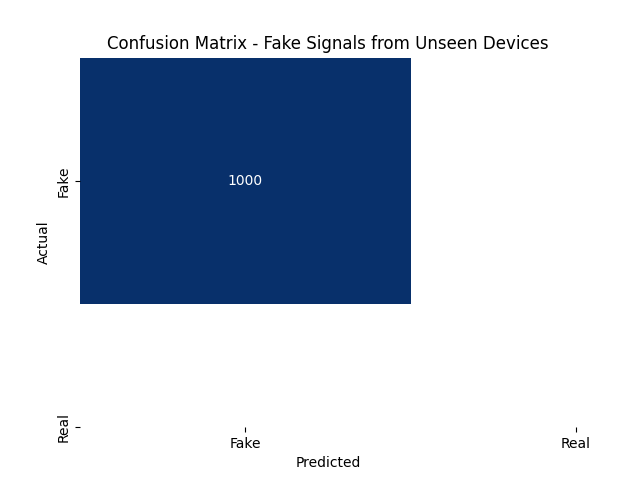
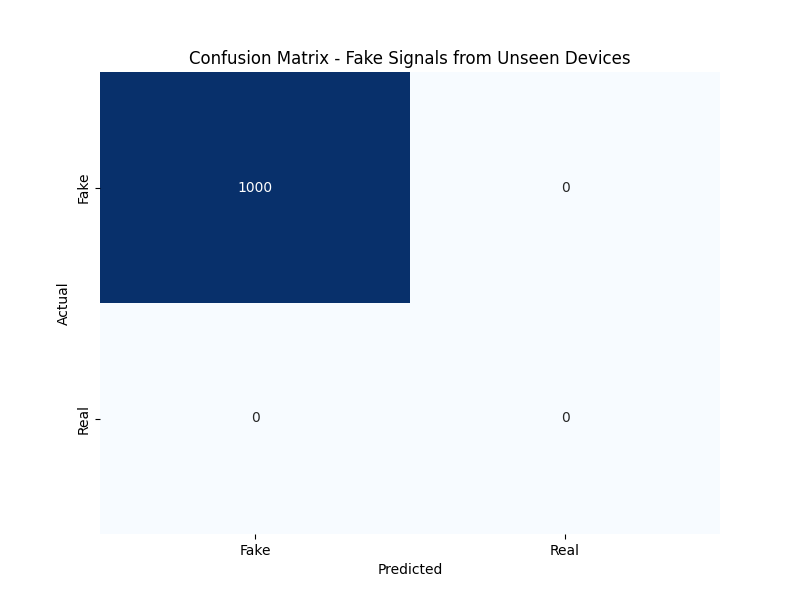
Generated the correct confusion matrices and fixed bugs within code

diff --git a/puf_classifier_v7.py b/puf_classifier_v7.py
@@ -140,7 +140,7 @@ def train_and_evaluate(X, Y):
             optimizer.step()
             
             train_loss += loss.item()
-            predicted = torch.max(outputs, 1)
+            _, predicted = torch.max(outputs, 1)
             total_train += labels.size(0)
             correct_train += (predicted == labels).sum().item()
         
@@ -159,7 +159,7 @@ def train_and_evaluate(X, Y):
                     outputs = outputs.unsqueeze(0)
                 loss = criterion(outputs, labels)
                 val_loss += loss.item()
-                predicted = torch.max(outputs, 1)
+                _, predicted = torch.max(outputs, 1)
                 total += labels.size(0)
                 correct += (predicted == labels).sum().item()
         
@@ -201,7 +201,7 @@ def extra_validation(model, test_data, test_labels):
     with torch.no_grad():
         for i in range(len(test_data)):
             output = model(test_tensor[i].unsqueeze(0))
-            predicted = torch.max(output, 1)
+            _, predicted = torch.max(output, 1)
             predictions_test.append(predicted.item())
             
     accuracy_test = 100 * np.sum(np.array(predictions_test) == test_labels.cpu().numpy()) / len(test_data)
@@ -260,15 +260,15 @@ if __name__ == "__main__":
     X10 = create_dataset(df10, sequence_size)
     X10_p2 = create_dataset(df10_4, sequence_size)
 
-    Y1 = np.full(len(X1), 1).astype(np.float32)
-    Y2 = np.full(len(X2), 2).astype(np.float32)
-    Y3 = np.full(len(X3), 3).astype(np.float32)
-    Y4 = np.full(len(X4), 4).astype(np.float32)
-    Y5 = np.full(len(X5), 5).astype(np.float32)
-    Y7 = np.full(len(X7), 6).astype(np.float32)
-    Y8 = np.full(len(X8), 7).astype(np.float32)
-    Y10 = np.full(len(X10), 8).astype(np.float32)
-    Y10_p2 = np.full(len(X10_p2), 9).astype(np.float32)
+    Y1 = np.full(len(X1), 0).astype(np.float32)
+    Y2 = np.full(len(X2), 1).astype(np.float32)
+    Y3 = np.full(len(X3), 2).astype(np.float32)
+    Y4 = np.full(len(X4), 3).astype(np.float32)
+    Y5 = np.full(len(X5), 4).astype(np.float32)
+    Y7 = np.full(len(X7), 5).astype(np.float32)
+    Y8 = np.full(len(X8), 6).astype(np.float32)
+    Y10 = np.full(len(X10), 7).astype(np.float32)
+    Y10_p2 = np.full(len(X10_p2), 8).astype(np.float32)
 
     # Create datasets for extra validation
     # Cut data from seen devices 1,2,3,4,5,7,8 and see if the model correctly predicts the right device
